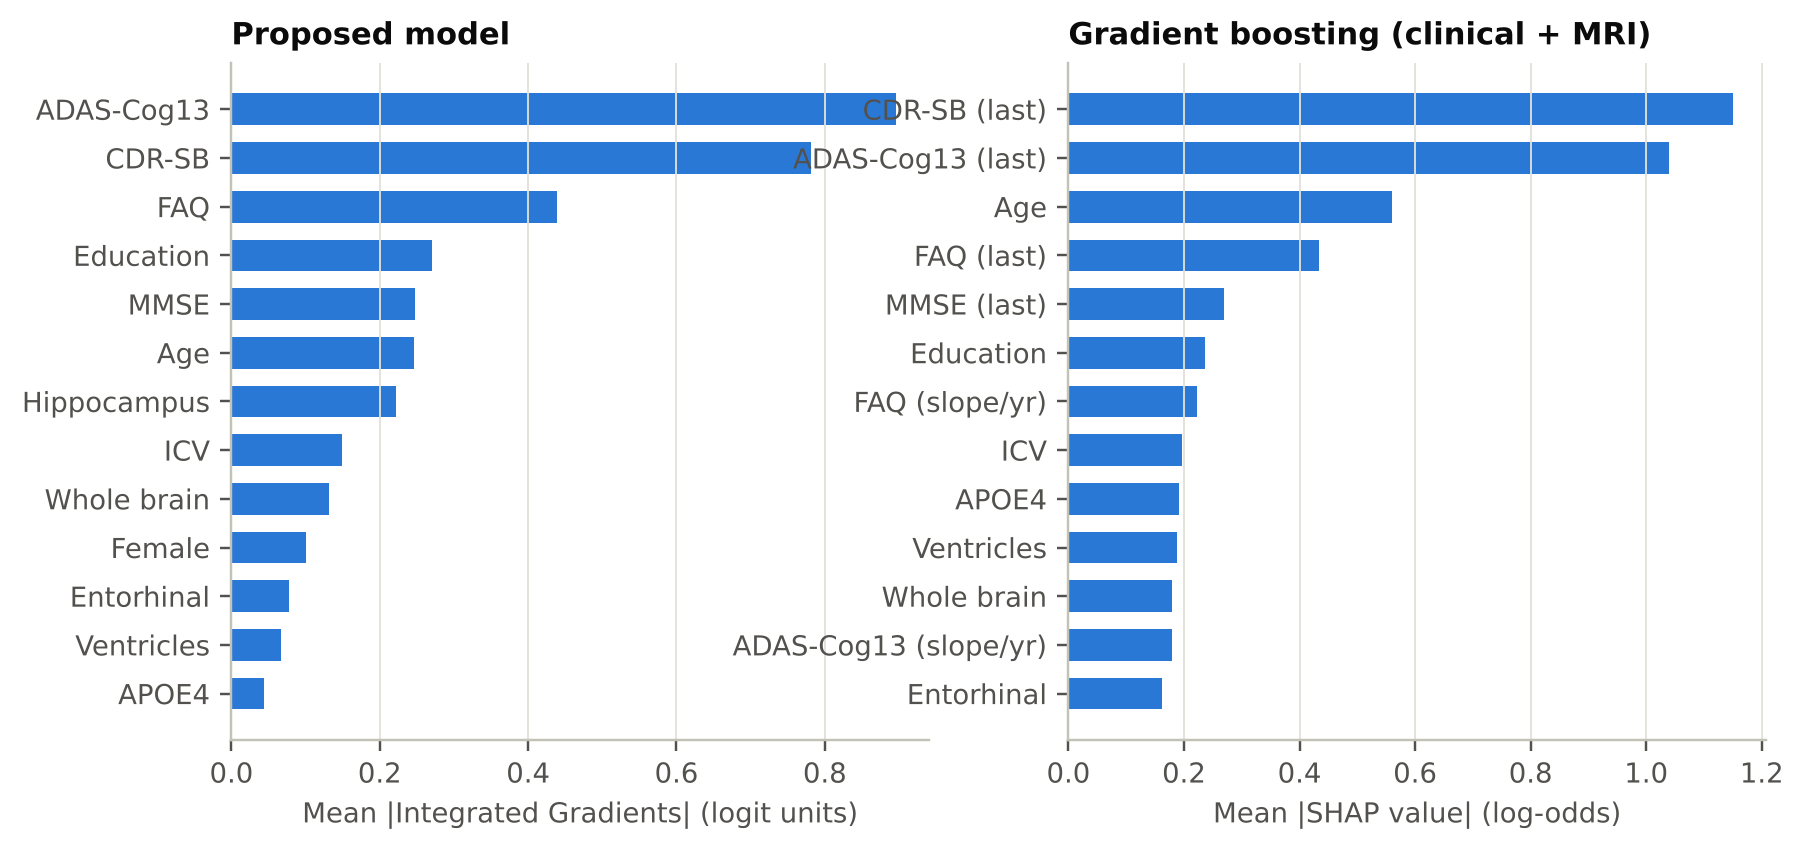
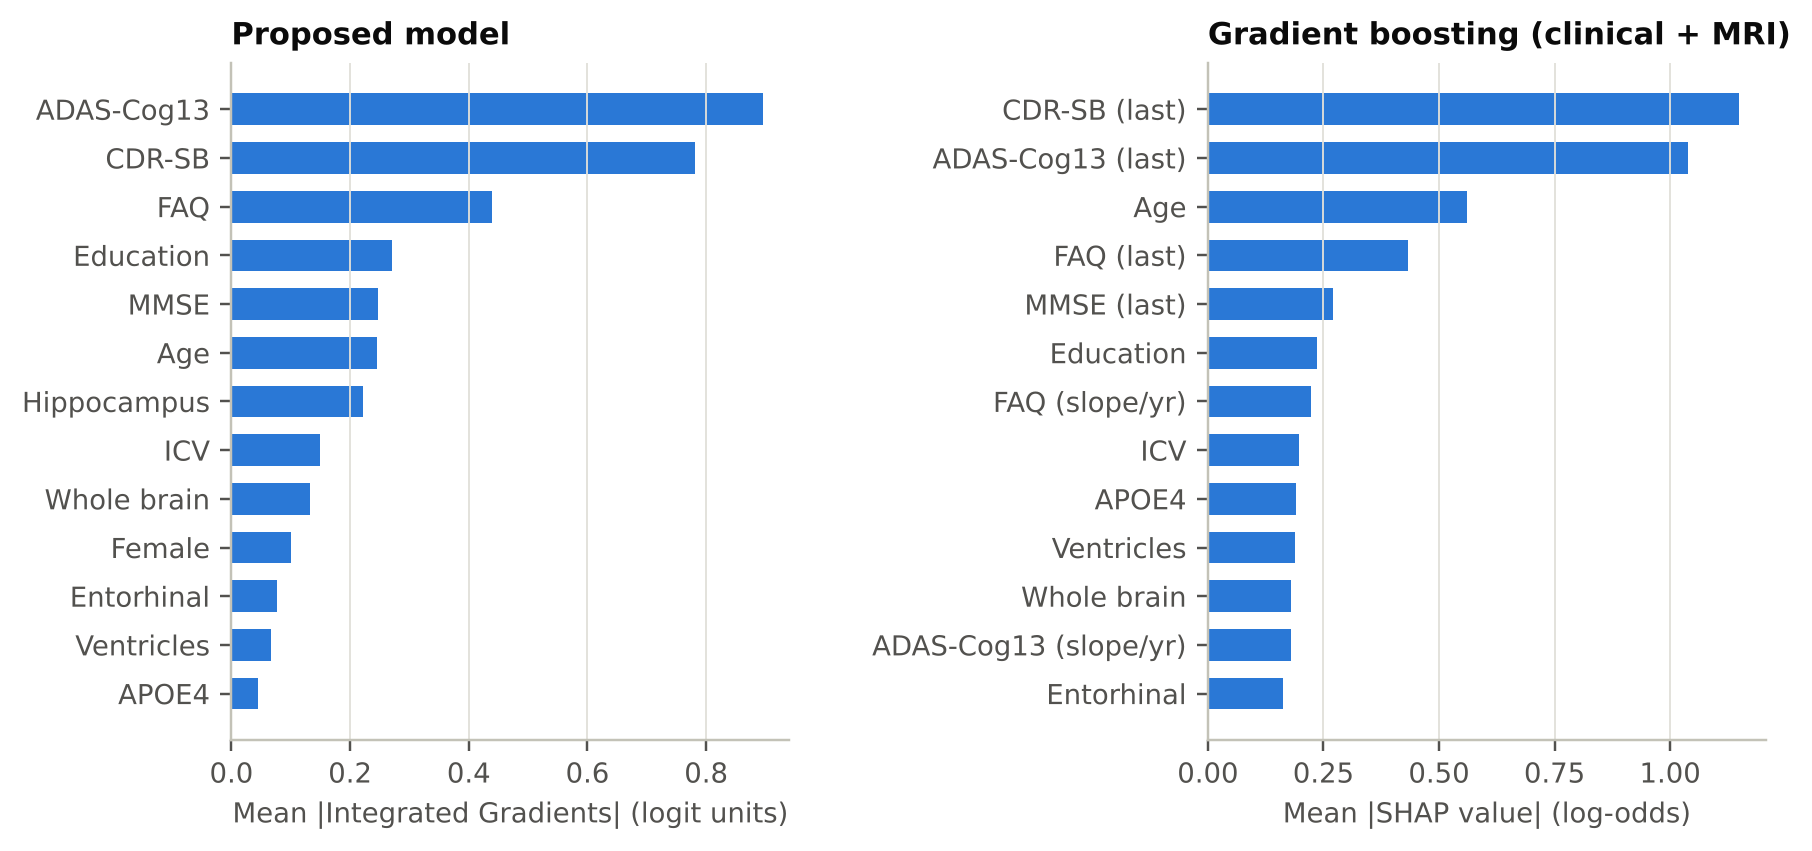
Fix figure layouts: label overlaps, legend placement, full stability range
Claude-Session: https://claude.ai/code/session_01LsYhwypG9oCMMA5mwPbUnf

diff --git a/scripts/05_make_figures.py b/scripts/05_make_figures.py
@@ -67,10 +67,13 @@ def fig_cohort_flow():
         ax.annotate("", xy=(3.6, b + 0.55), xytext=(3.6, a - 0.55),
                     arrowprops=dict(arrowstyle="-|>", color=MUTED, lw=1.2))
     excl = flow[flow.Stage.str.startswith("Excluded")]
-    lines = "\n".join(f"{s.replace('Excluded: ', '')}: {abs(int(c)):,}" for s, c in zip(excl.Stage, excl.Count))
-    ax.text(7.0, 5.05, "Excluded windows\n" + lines, ha="left", va="center", fontsize=7.5, color=INK2,
-            bbox=dict(boxstyle="round,pad=0.5", fc="white", ec=AXIS), wrap=True)
-    ax.annotate("", xy=(6.95, 5.05), xytext=(3.6, 5.05), arrowprops=dict(arrowstyle="-|>", color=MUTED, lw=1.0))
+    short = {"dementia": "Dementia before index", "no cognitive": "No score at index",
+             "outcome unknown": "Outcome unknown at 24 mo", "next visit": "Next visit inside cut-off"}
+    lines = "\n".join(f"{next(v for k, v in short.items() if k in st)}: {abs(int(c)):,}"
+                      for st, c in zip(excl.Stage, excl.Count))
+    ax.text(6.3, 5.05, "Excluded\n" + lines, ha="left", va="center", fontsize=8, color=INK2,
+            bbox=dict(boxstyle="round,pad=0.5", fc="white", ec=AXIS))
+    ax.annotate("", xy=(6.25, 5.05), xytext=(3.6, 5.05), arrowprops=dict(arrowstyle="-|>", color=MUTED, lw=1.0))
     names = [("train", "Training"), ("validation", "Validation"), ("calibration", "Calibration"),
              ("test", "Locked test")]
     for k, (key, name) in enumerate(names):
@@ -80,7 +83,7 @@ def fig_cohort_flow():
                         f"{int(r.converters)} converters", ha="center", va="center", fontsize=8, color=INK,
                 bbox=dict(boxstyle="round,pad=0.45", fc="white", ec=COLOR["e5_proposed"] if key == "test" else AXIS))
         ax.annotate("", xy=(x, 1.75), xytext=(3.6, 2.9), arrowprops=dict(arrowstyle="-|>", color=MUTED, lw=0.9))
-    ax.text(3.6, 2.45, "participant-level split", ha="center", fontsize=7.5, color=MUTED, style="italic")
+    ax.text(5.2, 2.6, "participant-level split", ha="left", fontsize=7.5, color=MUTED, style="italic")
     save(fig, "fig_cohort_flow")
 
 
@@ -156,7 +159,8 @@ def fig_missing_modality():
                 mec="white", mew=1, label=SHORT[k])
     ax.set(xlabel="Test windows with MRI removed (%)", ylabel="AUROC", title="Random MRI removal")
     ax.set_xticks([0, 25, 50, 75, 100])
-    ax.legend(fontsize=7.5, loc="lower left", ncol=2)
+    ax.set_ylim(0.85, 0.90)
+    ax.legend(fontsize=7.5, loc="upper center", bbox_to_anchor=(0.5, -0.2), ncol=3)
     ax2 = axes[1]
     labels = {"E5 Proposed reliability-aware fusion": "e5_proposed", "E4 Early fusion": "e4_early",
               "E4 Cross-attention fusion": "e4_xattn", "E4 Late fusion": "e4_late"}
@@ -172,6 +176,7 @@ def fig_missing_modality():
     ax2.set_xlim(0.5, 0.82)
     ax2.grid(axis="y", visible=False)
     ax2.set(xlabel="AUROC", title="Clinical history removed (MRI only)")
+    fig.subplots_adjust(wspace=0.75)
     save(fig, "fig_missing_modality")
 
 
@@ -204,6 +209,7 @@ def fig_importance():
     axes[1].set(xlabel="Mean |SHAP value| (log-odds)", title="Gradient boosting (clinical + MRI)")
     for ax in axes:
         ax.grid(axis="y", visible=False)
+    fig.subplots_adjust(wspace=0.75)
     save(fig, "fig_importance")
 
 
@@ -215,10 +221,11 @@ def fig_temporal():
     x = np.arange(len(m))
     ax.bar(x, m.to_numpy(), color=COLOR["e5_proposed"], width=0.6)
     ax.errorbar(x, m.to_numpy(), yerr=[m - lo, hi - m], fmt="none", ecolor=INK2, lw=1, capsize=3)
-    ax.set_xticks(x, m.index, rotation=0, fontsize=8)
+    ax.set_xticks(x, ["Index visit", "6 mo", "12 mo", "18 mo", "24 mo", "> 2.5 y"], fontsize=8)
     ax.grid(axis="x", visible=False)
-    ax.set(ylabel="Mean |attribution| per visit", title="Which visits drive the forecast (proposed model)")
-    ax.text(0, -0.25, "Bars: mean over 5 seeds; whiskers: range across seeds.", transform=ax.transAxes,
+    ax.set(ylabel="Mean |attribution| per visit", xlabel="Time before the index visit",
+           title="Which visits drive the forecast (proposed model)")
+    ax.text(0, -0.32, "Bars: mean over 5 seeds; whiskers: range across seeds.", transform=ax.transAxes,
             fontsize=7.5, color=MUTED)
     save(fig, "fig_temporal_attribution")
 
@@ -250,15 +257,15 @@ def fig_stability():
     fig, axes = plt.subplots(1, 3, figsize=(9.0, 2.8), sharey=True)
     for ax, (k, title) in zip(axes, panels):
         v = d[k]
-        ax.hist(v, bins=np.linspace(-0.2, 1, 25), color=COLOR["e5_proposed"], edgecolor="white", linewidth=1)
+        ax.hist(v, bins=np.linspace(0.0, 1, 41), color=COLOR["e5_proposed"], edgecolor="white", linewidth=1)
         ax.axvline(np.median(v), color=INK, lw=1.5)
         ax.axvline(0.7, color=MUTED, lw=1, ls="--")
-        ax.text(np.median(v) - 0.02, ax.get_ylim()[1] * 0.92, f"median {np.median(v):.2f}", ha="right",
-                fontsize=8, color=INK)
+        ax.text(0.03, ax.get_ylim()[1] * 0.92, f"median {np.median(v):.2f}", ha="left", fontsize=8, color=INK)
         ax.set(title=title, xlabel="Spearman rank correlation")
         ax.grid(axis="x", visible=False)
     axes[0].set_ylabel("Pairs of explanations")
-    fig.text(0.01, -0.04, "Dashed line: pre-specified stability threshold (0.70).", fontsize=7.5, color=MUTED)
+    fig.text(0.01, -0.1, "Dashed line: pre-specified stability threshold (0.70). Solid line: median.", fontsize=7.5,
+             color=MUTED)
     save(fig, "fig_stability")
 
 
